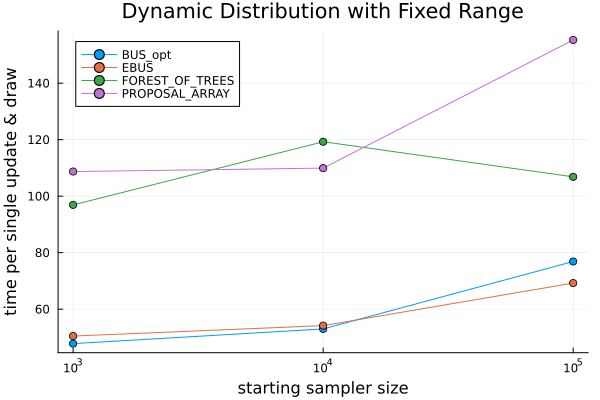
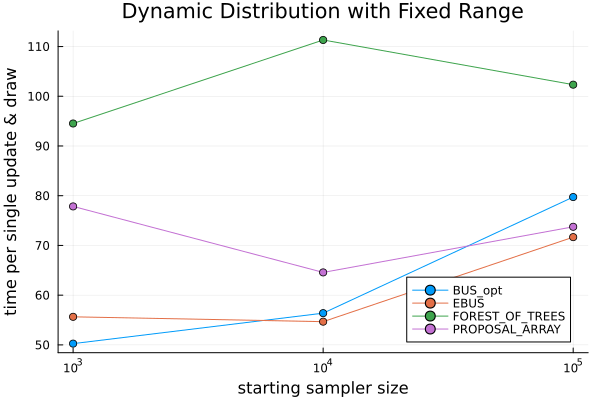
use medians

diff --git a/proposal_array/source/main.cpp b/proposal_array/source/main.cpp
@@ -8,6 +8,19 @@
 #include <string>
 #include "DynamicProposalArrayStar.hpp"
 
+double median(std::vector<double> v) {
+    if (v.empty()) throw std::domain_error("median of empty vector");
+    std::sort(v.begin(), v.end());
+    size_t n = v.size();
+    if (n % 2 == 1) {
+        // odd number of elements
+        return v[n/2];
+    } else {
+        // even number of elements: average the two middle
+        return 0.5 * (v[n/2 - 1] + v[n/2]);
+    }
+}
+
 void append_column_in_place(const std::string& file_path, const std::vector<double>& vec) {
     std::ifstream fin(file_path);
     if (!fin.is_open()) {
@@ -119,7 +132,7 @@ std::vector<size_t> benchmark_sample_dynamic_variable(sampling::DynamicProposalA
 
 int main() {
     std::mt19937 rng(42);
-    const int repetitions = 5;
+    int repetitions = 50;
 
     std::vector<double> static_times;
     std::vector<double> dynamic_fixed_times;
@@ -128,54 +141,52 @@ int main() {
     for (int exp = 3; exp <= 5; ++exp) {
         size_t size = static_cast<size_t>(std::pow(10, exp));
 
-        double total_static_ns = 0;
-        double total_dynamic_fixed_ns = 0;
-        double total_dynamic_variable_ns = 0;
+        std::vector<double> static_ns;
+        std::vector<double> dynamic_fixed_ns;
+        std::vector<double> dynamic_variable_ns;
+
+        if (exp == 6) {repetitions /= 10;}
+
+        auto sampler1 = setup_sampler(size, rng);
 
         for (int rep = 1; rep <= repetitions; ++rep) {
-
-            auto sampler1 = setup_sampler(size, rng);
 
             // Benchmark static sampling
             auto fixed_start = std::chrono::high_resolution_clock::now();
             auto fixed_samples = benchmark_sample_static(sampler1, rng, size);
             auto fixed_end = std::chrono::high_resolution_clock::now();
             std::chrono::duration<double, std::nano> fixed_time = fixed_end - fixed_start;
-            total_static_ns += fixed_time.count();
+            static_ns.push_back(fixed_time.count() / size);
+        }
 
-            auto sampler2 = setup_sampler(size, rng);
+        auto sampler2 = setup_sampler(size, rng);
+
+        for (int rep = 1; rep <= repetitions; ++rep) {
 
             // Benchmark dynamic fixed sampling
             auto variable_start = std::chrono::high_resolution_clock::now();
             auto variable_samples = benchmark_sample_dynamic_fixed(sampler2, rng, size);
             auto variable_end = std::chrono::high_resolution_clock::now();
             std::chrono::duration<double, std::nano> variable_time = variable_end - variable_start;
-            total_dynamic_fixed_ns += variable_time.count();
+            dynamic_fixed_ns.push_back(variable_time.count() / size);
+        }
+        
+        auto sampler3 = setup_sampler(size, rng);
 
-            auto sampler3 = setup_sampler(size, rng);
-            
+        for (int rep = 1; rep <= repetitions; ++rep) {
+  
             // Benchmark dynamic variable sampling
             auto variable2_start = std::chrono::high_resolution_clock::now();
             auto variable2_samples = benchmark_sample_dynamic_variable(sampler3, rng, size);
             auto variable2_end = std::chrono::high_resolution_clock::now();
             std::chrono::duration<double, std::nano> variable2_time = variable2_end - variable2_start;
-            total_dynamic_variable_ns += variable2_time.count();
+            dynamic_variable_ns.push_back(variable2_time.count() / (9*size));
         }
 
-        // Compute average times per element/sample
-        double avg_static_per_sample = (total_static_ns / repetitions) / size;
-        double avg_dynamic_fixed_per_sample = (total_dynamic_fixed_ns / repetitions) / size;
-        double avg_dynamic_variable_per_sample = (total_dynamic_variable_ns / repetitions) / (9*size);
+        static_times.push_back(median(static_ns));
+        dynamic_fixed_times.push_back(median(dynamic_fixed_ns));
+        dynamic_variable_times.push_back(median(dynamic_variable_ns));
 
-        static_times.push_back(avg_static_per_sample);
-        dynamic_fixed_times.push_back(avg_dynamic_fixed_per_sample);
-        dynamic_variable_times.push_back(avg_dynamic_variable_per_sample);
-
-        std::cout << "Size: " << size
-                  << ", Avg Static sampling: " << avg_static_per_sample << " ns/sample"
-                  << ", Avg Dynamic Fixed sampling: " << avg_dynamic_fixed_per_sample << " ns/sample"
-                  << ", Avg Dynamic Variable sampling: " << avg_dynamic_variable_per_sample << " ns/sample"
-                  << std::endl;
     }
 
     const std::string data_dir = "../../data/";
@@ -189,7 +200,6 @@ int main() {
         std::cerr << "Error: " << e.what() << "\n";
         return 1;
     }
-
 
     return 0;
 }

diff --git a/forest_of_trees/src/main.rs b/forest_of_trees/src/main.rs
@@ -102,68 +102,85 @@ fn append_column_to_csv(
     Ok(())
 }
 
-
-fn main() -> Result<(), Box<dyn std::error::Error>> {
+fn main() -> Result<(), Box<dyn Error>> {
     let mut rng = Pcg64::seed_from_u64(42);
     let sample_sizes: Vec<usize> = (3..=5).map(|i| 10usize.pow(i)).collect();
-    let repetitions = 5;
+    let mut repetitions = 50;
 
     // --- 1) static (fixed) sampling ---
-    let mut static_avgs = Vec::with_capacity(sample_sizes.len());
+    let mut static_medians = Vec::with_capacity(sample_sizes.len());
     for &size in &sample_sizes {
+        if size > 100000 {repetitions = 5;}
         let dw_index = setup(&mut rng, size);
-        let mut total_ns: u128 = 0;
+        let mut times: Vec<u128> = Vec::with_capacity(repetitions);
         for _ in 0..repetitions {
             let idx = black_box(&dw_index);
             let n   = black_box(size);
             let start = Instant::now();
             sample_fixed(&mut rng, idx, n);
-            total_ns += start.elapsed().as_nanos();
+            times.push(start.elapsed().as_nanos());
         }
-        let avg = total_ns as f64 / (repetitions as f64 * size as f64);
+        times.sort();
+        let median_ns = if repetitions % 2 == 0 {
+            (times[repetitions / 2 - 1] + times[repetitions / 2]) / 2
+        } else {
+            times[repetitions / 2]
+        };
+        let median_per_sample = median_ns as f64 / size as f64;
         println!(
-            "Size: {:>8}, Fixed ({} reps): {:.2} ns/sample",
-            size, repetitions, avg
+            "Size: {:>8}, Fixed ({} reps): {:.2} ns/sample (median)",
+            size, repetitions, median_per_sample
         );
-        static_avgs.push(avg);
+        static_medians.push(median_per_sample);
     }
 
-    // write static_avgs out
+    // write static_medians out
     let manifest_dir = Path::new(env!("CARGO_MANIFEST_DIR"));
     let static_csv = manifest_dir
         .parent().unwrap()
         .join("data")
         .join("static.csv");
-    append_column_to_csv(&static_csv, "FOREST_OF_TREES", &static_avgs)
+    append_column_to_csv(&static_csv, "FOREST_OF_TREES", &static_medians)
         .expect("Failed to append FOREST_OF_TREES to static.csv");
 
+    repetitions = 50;
+
     // --- 2) variable sampling ---
-    let mut variable_avgs = Vec::with_capacity(sample_sizes.len());
+    let mut variable_medians = Vec::with_capacity(sample_sizes.len());
     for &size in &sample_sizes {
-        let mut total_ns: u128 = 0;
+
+        if size > 100000 {repetitions = 5;}
+        let mut times: Vec<u128> = Vec::with_capacity(repetitions);
         for _ in 0..repetitions {
             let mut dw_index = setup(&mut rng, size);
             let idx = black_box(&mut dw_index);
             let n   = black_box(size);
             let start = Instant::now();
             sample_variable(&mut rng, idx, n);
-            total_ns += start.elapsed().as_nanos();
+            times.push(start.elapsed().as_nanos());
         }
-        let avg = total_ns as f64 / (repetitions as f64 * size as f64);
+        times.sort();
+        let median_ns = if repetitions % 2 == 0 {
+            (times[repetitions / 2 - 1] + times[repetitions / 2]) / 2
+        } else {
+            times[repetitions / 2]
+        };
+        let median_per_sample = median_ns as f64 / size as f64;
         println!(
-            "Size: {:>8}, Variable ({} reps): {:.2} ns/sample",
-            size, repetitions, avg
+            "Size: {:>8}, Variable ({} reps): {:.2} ns/sample (median)",
+            size, repetitions, median_per_sample
         );
-        variable_avgs.push(avg);
+        variable_medians.push(median_per_sample);
     }
 
-    // write variable_avgs out
+    // write variable_medians out
     let variable_csv = manifest_dir
         .parent().unwrap()
         .join("data")
         .join("dynamic_fixed.csv");
-    append_column_to_csv(&variable_csv, "FOREST_OF_TREES", &variable_avgs)
+    append_column_to_csv(&variable_csv, "FOREST_OF_TREES", &variable_medians)
         .expect("Failed to append FOREST_OF_TREES to dynamic_fixed.csv");
 
     Ok(())
 }
+
